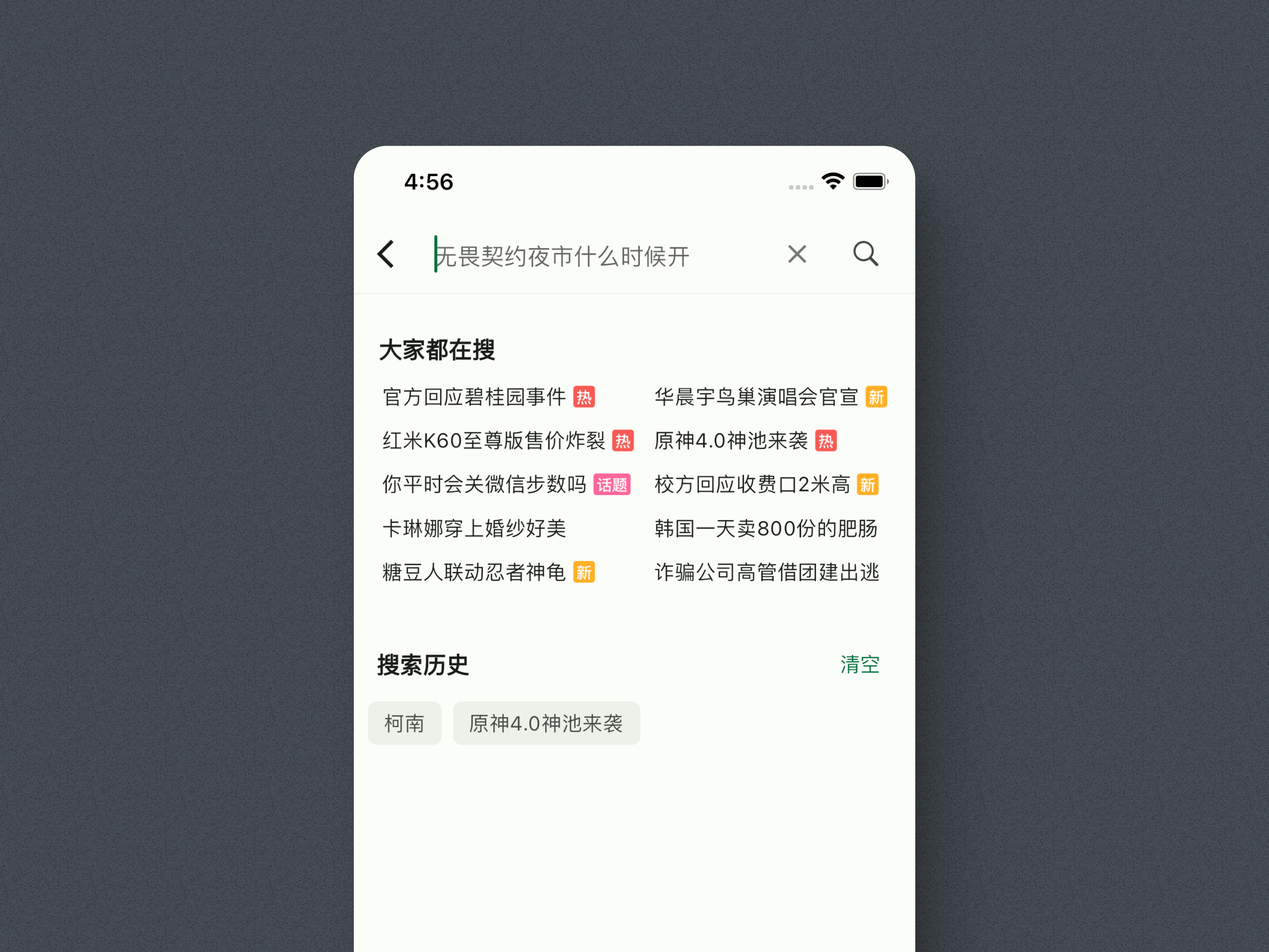
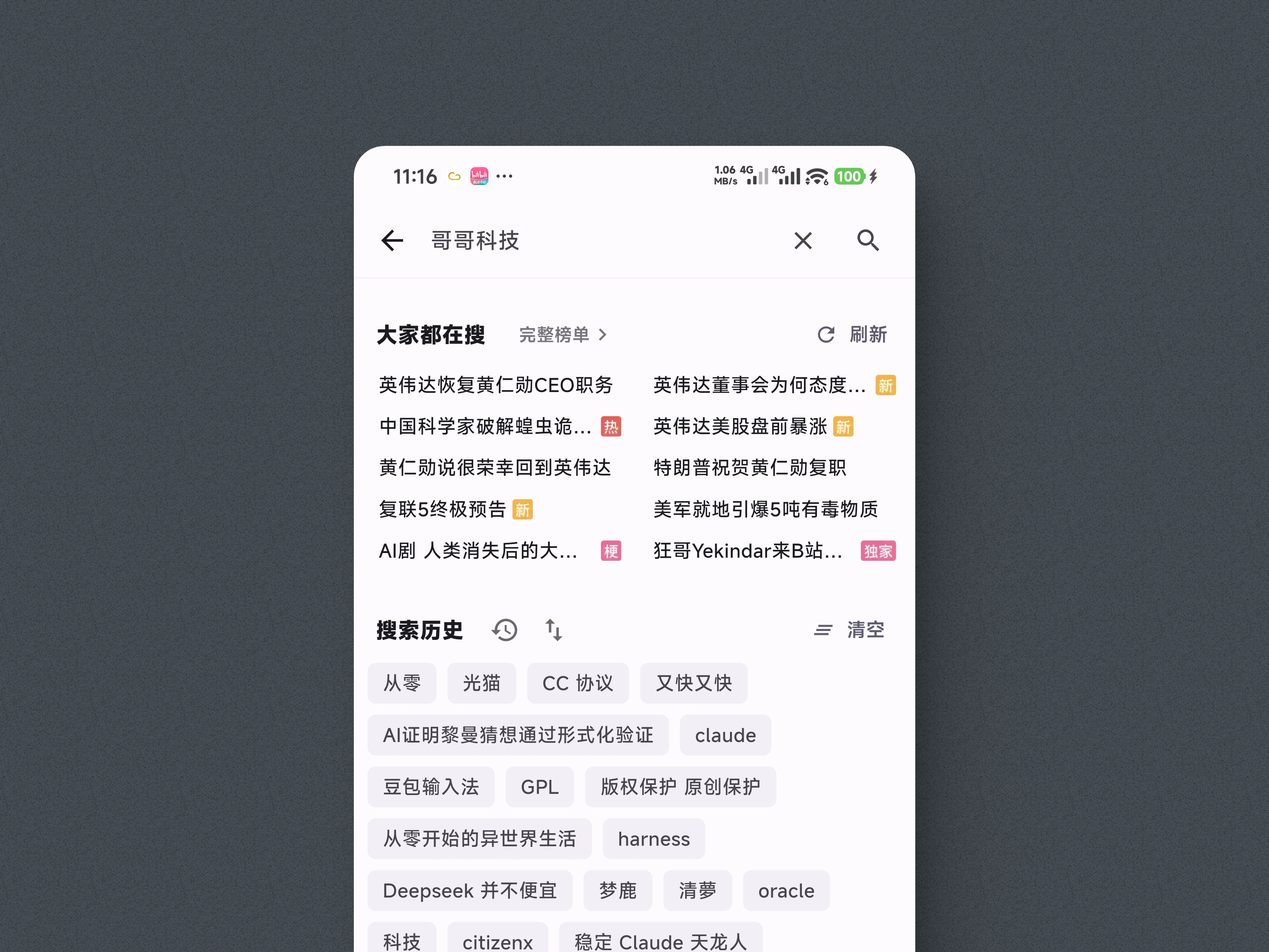
chore：错别字+截图升级

diff --git a/README.md b/README.md
@@ -23,7 +23,7 @@
 <span>$\color{red}{\textsf{更多可观察性：}}$</span>应用流量按小时统计上下行，并区分 Wi-Fi、等效移网与真蜂窝；播放器显示当前视频流大小/估算大小与总码率；首选编码不可用、CDN 回退、硬解兜底均给出明确提示；AI 字幕增加 UP 主粉丝数阈值控制。
 
 <span>$\color{blue}{\textsf{重构推荐系统：}}$</span>避免了上游千篇一律的万人骑“UUID”，根据设备信息动态生成；模仿原版询问喜欢的分区；推荐算法支持Web、手机、平板3种和相应混合；更懂你、更有趣、更生动、强相关：每次都能耳目一新且日久积累的大数据推流体验；支持区分主账号，多人共用不打架；支持条数、相关度设置等。<br>
-<span>$\color{red}{\textsf{弹幕和面板优化：}}$</span>引入了类似[Pakku 帕克](https://s.xmcp.ltd/pakkujs)的过滤系统，更推荐PC端等散热、性能、🔋续航🔌充足的设备使用，默认不开启，尊重每个人的选择；倍速省纪委面板、滑竿可选，类似“粗/细准焦螺旋”级别的微操调节，给你最合适的播放速度和手感！
+<span>$\color{red}{\textsf{弹幕和面板优化：}}$</span>引入了类似[Pakku 帕克](https://s.xmcp.ltd/pakkujs)的过滤系统，更推荐PC端等散热、性能、🔋续航🔌充足的设备使用，默认不开启，尊重每个人的选择；倍速 **升级为** 面板、滑竿可选，类似“粗/细准焦螺旋”级别的微操调节，给你最合适的播放速度和手感！
 
 <span>$\color{blue}{\textsf{离线解码实验室：}}$</span>在离线缓存界面增加离线解码测试，您可以在固定倍速、关闭弹幕、同一视频、同一起点播放相同时间，观察播放器实际推进的时间，得出实际倍速。您也可以指定某一编码器，看它在您的设备上性能到底如何。我们不关心复杂的实现，我们只关心该解码器在您的设备上到底能为您节约多少时间。测试方法非常朴素，就是可以选择不改变设置、轻微丢帧和激进丢帧，看流逝相同的物理时间，播放器时间能推进多少？<br><span>$\color{red}{\textsf{UI 针对实验优化：}}$</span>抛弃所有入口必须统一的教科书形式主义、学院派，例如当前视频切换 CDN 变成单选题，避免复杂的排序。在不同的场景运用不同的选择偏好复杂度。
 
@@ -38,7 +38,7 @@
 $\color{blue}{\textsf{内置多维度家用硬路由测控：}}$ 
 将哥哥科技的脚本深度整合到 App 当中，总体积不足 1MiB 的“瑞士军刀”，实用功能强大，支持小米、华为、中兴、TP、腾达、H3C、锐捷、华硕/TUF/ROG、部分 ISP 光猫（ONU）的深度直观化增强，网速统计、流量计算、上下线和状态同步到 HA，网速曲线图表长期保存。自动获取网关，保存常用列表组合，无需在手机上进行任何复杂的脚本或插件环境配置。
 
-$\color{red}{\textsf{进一步优化播放器性能表现：}}$ 研究了上游 MPV 的实现，在 Windows 上面实现了DX 11非 Copy 直通，在相同内存或带宽下，提升了高倍速的极限速率和日用稳定性；在安卓上实现了 Media Code 的 Embed 直通模式，避免经过复杂的 GPU 管线，能效比更高。
+$\color{red}{\textsf{进一步优化播放器性能表现：}}$ 研究了上游 MPV 的实现，在 Windows 上面实现了DX 11非 Copy 直通，在相同内存或带宽下，提升了高倍速的极限速率和日用稳定性；在安卓上实现了 Media Codec 的 Embed 直通模式，避免经过复杂的 GPU 管线，能效比更高。
 
 $\color{blue}{\textsf{宽度调节：}}$ 现在支持“列表宽度调节”和“卡片边距与页面边距”，在设置里面搜索即可直达这些选项：边距越小则封面越大。  
 $\color{red}{\textsf{自定义进度条：}}$ 融合了B站原版、YouTube 两者的精华：现在，用户可以自定义进度条是往上弹起，还是和播放器属于同一位置？可以留出更大的高度来上下调节亮度、音量之类了。
@@ -94,7 +94,7 @@ iOS、Android JIT Debug版
 
 ## 下载
 
-可从下方 Releases区 下载，也可拉取 `dev` 分支本地编译。Android 使用 `org.BroTech.Gege.piliBro`，可与三方应用并存；本分支 Release 使用固定签名，同签名的后续构建可直接覆盖升级，Apk内部版本号随时间单调递增至至多 10000次 提交。
+可从下方 Releases区 下载，也可拉取 `dev` 分支本地编译。Android 使用 `org.BroTech.Gege.piliBro`，可与三方应用并存；本分支 Release 使用固定签名，同签名的后续构建可直接覆盖升级，Apk内部版本号随时间单调递增到至多 10000次 提交。
 
 ## 声明与致谢
 
@@ -112,7 +112,7 @@ PiliBro，乾杯-( ゜- ゜)つロ
 
 其他合理场景还包括：在通勤、候车、课间等碎片时间快速处理已经收藏的视频；为需要反复复习的课程建立更符合个人节奏的观看方式；在较差网络、老旧硬件或资源有限的设备上减少无意义的卡顿和资源浪费；通过长期数据观察自己的注意力与观看习惯变化；对播放器交互、倍速算法、统计模型、缓冲策略、编码选择和跨平台适配进行学习与实验；在考研、考试准备或更多需要长期专注的阶段，用于学习效率管理与自律；仅通过私聊等非公开方式分享给现实生活中相识的挚友、亲人或家人，供共同学习、测试或个人使用；以及单纯因为珍惜自己的时间，用于仅供个人使用的私人设备，希望一件每天都要使用的软件能够真正服从于人的习惯，而非让人反过来适应软件预设的节奏：其边界效用在于节约自己宝贵的时间和生命。
 
-本项目无意建立独立的软件分发体系，也不鼓励以商业推广、广告捆绑、流量获利、批量转载或其他与上述用途明显无关的方式传播。上述内容主要用于说明项目的创作目的与作者认可的合理使用方式，不改变许可证及各创作者依法享有的权利。
+本项目无意建立独立的软件分发体系，也不鼓励以商业推广、广告捆绑、流量获利、批量转载或其他与上述用途明显无关的方式传播。此说明主要继承于程序的上游依赖项。
 The open-source authors—whether associated with or unrelated to this matter—and I shall not be held liable for any consequences or disputes arising from the use of methods not recommended on the official website; the developers bear no legal responsibility.
 
 It is provided here solely for non-commercial, educational, research, and transformative purposes.
